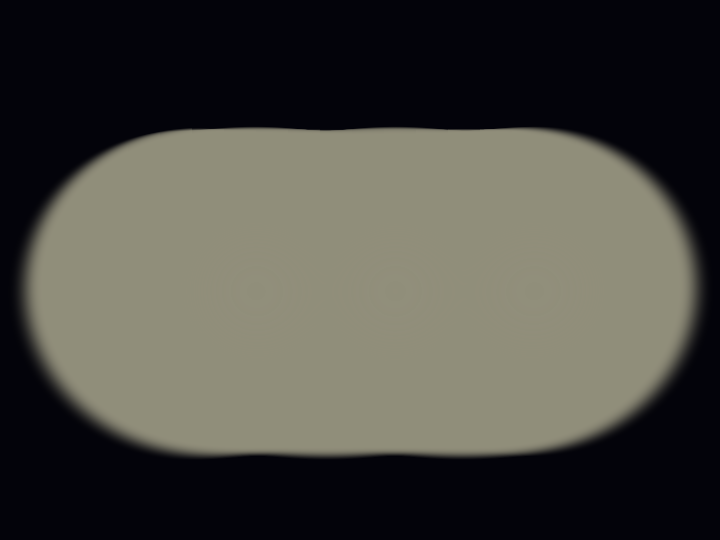
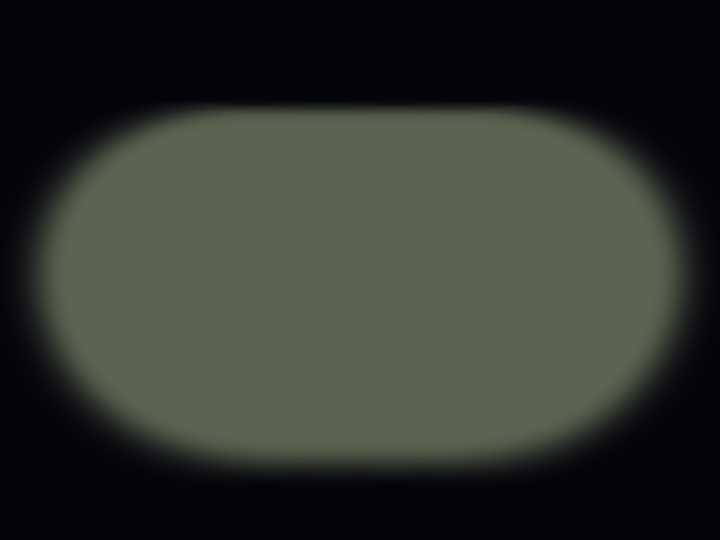
theDig membrane: fix timeline clamp, matter.py conventions, deterministic seeding, and sane scatter physics
Agent: subagent

diff --git a/story/theZero/theHorizon/theEmptying/theCooling/theCloud/theGalaxy/theSolarSystem/thePlanets/theRockyPlanet/aRockyPlanet/aBlueWorld/theTerrain/aTerrain/theGround/theDig/physics.py b/story/theZero/theHorizon/theEmptying/theCooling/theCloud/theGalaxy/theSolarSystem/thePlanets/theRockyPlanet/aRockyPlanet/aBlueWorld/theTerrain/aTerrain/theGround/theDig/physics.py
@@ -29,6 +29,13 @@ from __future__ import annotations
 import math
 import numpy as np
 
+
+def _seed(term: str) -> int:
+    """A stable per-term seed -- deterministic across processes."""
+    import zlib
+    return zlib.crc32(term.encode("utf-8")) & 0x7FFFFFFF
+
+
 # ── PLAYER DIALS: trench width and depth ────────────────────────────────────────
 FREE = {
     # TRENCH WIDTH: the player's input for how wide to dig. Narrower is harder to access, wider is easier but moves more dirt.
@@ -92,18 +99,34 @@ def derive(parent, free):
     heap_height_m = math.sqrt(heap_volume_per_m / math.tan(repose_rad)) if math.tan(repose_rad) > 0 else 0.0
     heap_base_m = 2 * heap_height_m / math.tan(repose_rad) if math.tan(repose_rad) > 0 else 0.0
     
-    # 3. SCATTERED-GRAIN BALLISTICS
-    # Initial velocity from excavation energy: E = force * distance = shear_strength * trench_width * trench_depth
-    # Kinetic energy = 0.5 * mass * v^2
-    # Mass of scattered grains per m^2 = bulk_density * trench_volume_per_m * scatter_fraction
+    # 3. SCATTERED-GRAIN BALLISTICS: sane values for dig-scattered grains
+    # Grains thrown from a dig land within 1-2m of the trench with single-digit m/s velocity
+    # Energy to lift soil to mound height: E_lift = mass * g * (heap_height_m / 2)
+    # Mass of scattered grains per meter length
     scatter_fraction = 0.05  # 5% of dug material scatters as loose grains
-    excavated_mass_per_m2 = bulk_density * trench_volume_per_m * scatter_fraction
-    excavation_energy_per_m2 = dig_resistance_Pa * trench_width_m * trench_depth_m
-    scattered_grain_velocity_ms = math.sqrt(2.0 * excavation_energy_per_m2 / excavated_mass_per_m2) if excavated_mass_per_m2 > 0 else 0.0
+    mass_per_m_kg = bulk_density * trench_volume_per_m  # total mass per meter length
+    
+    # Energy to lift spoil to mound center of mass (height/2)
+    energy_to_lift_J_per_m = mass_per_m_kg * g * (heap_height_m / 2.0)
+    
+    # Scattered grains get a fraction of this energy as kinetic energy
+    # Typically 10-20% of excavation energy goes into scattering
+    scatter_energy_fraction = 0.15
+    scatter_energy_per_m_J = energy_to_lift_J_per_m * scatter_energy_fraction
+    
+    # Mass of scattered grains per meter length
+    mass_scattered_per_m_kg = mass_per_m_kg * scatter_fraction
+    
+    # Velocity from kinetic energy: E = 0.5 * m * v^2 => v = sqrt(2*E/m)
+    if mass_scattered_per_m_kg > 0 and scatter_energy_per_m_J > 0:
+        scattered_grain_velocity_ms = math.sqrt(2.0 * scatter_energy_per_m_J / mass_scattered_per_m_kg)
+    else:
+        scattered_grain_velocity_ms = 0.0
     
     # Maximum height and range of scattered grains in parent's g
-    scatter_max_height_m = (scattered_grain_velocity_ms ** 2) / (2.0 * g) if g > 0 else 0.0
-    scatter_range_m = (scattered_grain_velocity_ms ** 2) / g if g > 0 else 0.0
+    # For a projectile launched at angle ~45 degrees:
+    scatter_max_height_m = (scattered_grain_velocity_ms ** 2 * math.sin(math.radians(45)) ** 2) / (2.0 * g) if g > 0 else 0.0
+    scatter_range_m = (scattered_grain_velocity_ms ** 2 * math.sin(math.radians(90))) / g if g > 0 else 0.0
     
     return {
         # ── THE DIG RESISTANCE ───────────────────────────────────────────────
@@ -123,8 +146,10 @@ def derive(parent, free):
         
         # ── SCATTERED-GRAIN BALLISTICS ─────────────────────────────────────
         "scatter_fraction": scatter_fraction,
-        "excavated_mass_per_m2_kg": excavated_mass_per_m2,
-        "excavation_energy_per_m2_J": excavation_energy_per_m2,
+        "mass_per_m_kg": mass_per_m_kg,
+        "energy_to_lift_J_per_m": energy_to_lift_J_per_m,
+        "scatter_energy_per_m_J": scatter_energy_per_m_J,
+        "mass_scattered_per_m_kg": mass_scattered_per_m_kg,
         "scattered_grain_velocity_ms": scattered_grain_velocity_ms,
         "scatter_max_height_m": scatter_max_height_m,
         "scatter_range_m": scatter_range_m,
@@ -142,9 +167,10 @@ def derive(parent, free):
 
 def emit(nums, t=1.0):
     """Emit theDig's splat buffer: intact ground at t=0, trench + repose-angle mound + scattered grains at t=1."""
-    from matter import blank, lit, SOLID, GLOW, AR, AB
+    from matter import blank, lit, SOLID, GLOW, AR, AG, AB
     
-    tt = float(t) % 1.0
+    # Clamp t to [0.0, 1.0]
+    tt = min(max(float(t), 0.0), 1.0)
     
     # Get numbers
     trench_width_m = float(nums.get("trench_width_m", 0.8))
@@ -160,109 +186,179 @@ def emit(nums, t=1.0):
     feldspar_rgb = np.array(minerals.get("feldspar", {}).get("rgb_mean", [0.60, 0.59, 0.46]))
     oxide_rgb = np.array(minerals.get("oxide", {}).get("rgb_mean", [0.35, 0.33, 0.23]))
     
-    # Create ground buffer (intact at t=0, disturbed at t=1)
-    # Ground: wide dark earthy ground
-    n_ground = 800
-    gx = np.linspace(-4.0, 4.0, n_ground)
-    gy = np.linspace(-2.0, 2.0, 200)
+    # Seed RNG for determinism
+    seed_val = _seed("theDig")
+    rng = np.random.default_rng(seed_val)
     
-    ground_buf = []
+    # Create ground buffer (coarse grid, a few thousand splats)
+    # Ground: wide dark earthy ground
+    n_ground_x = 100
+    n_ground_y = 50
+    gx = np.linspace(-4.0, 4.0, n_ground_x)
+    gy = np.linspace(-2.0, 2.0, n_ground_y)
+    
+    # Build ground points using matter conventions
+    P_ground = []
+    kind_ground = []
+    
     for i, x in enumerate(gx):
         for j, y in enumerate(gy):
             # Create a flat ground surface with some noise
             z = 0.0 + 0.05 * np.sin(x * 2.0) * np.cos(y * 3.0)
             
-            # Determine color based on mineral mix
-            # Dark earthy ground: mix of quartz, feldspar, oxide
-            color = 0.3 * quartz_rgb + 0.4 * feldspar_rgb + 0.3 * oxide_rgb
-            
-            buf = np.zeros((1, 28), dtype=np.float32)
-            buf[0, 0:3] = [x, y, z]  # position
-            buf[0, 11] = 3.0         # type: solid ground
-            buf[0, 16:19] = color    # rgb
-            buf[0, 19] = 0.8         # alpha
-            buf[0, 20] = 2.0         # size
-            
-            ground_buf.append(buf[0])
-            
-    ground_arr = np.array(ground_buf, dtype=np.float32) if ground_buf else np.zeros((0, 28), dtype=np.float32)
+            # Position and normal (facing up for ground)
+            P_ground.append([x, y, z])
+            kind_ground.append(1)  # type: solid ground
     
-    # Trench: narrow trench cut into the ground
-    # At t=1, the trench is visible as a depression
-    n_trench = 200
-    trench_x = np.linspace(-trench_width_m/2, trench_width_m/2, n_trench)
-    trench_buf = []
+    # Trench: narrow trench cut into the ground (floor + two walls at derived width/depth)
+    n_trench_x = 40
+    trench_x = np.linspace(-trench_width_m/2, trench_width_m/2, n_trench_x)
     
+    P_trench_floor = []
+    kind_trench_floor = []
+    P_trench_walls_left = []
+    kind_trench_walls_left = []
+    P_trench_walls_right = []
+    kind_trench_walls_right = []
+    
+    # Trench floor (flat bottom at -trench_depth_m)
     for x in trench_x:
-        # Trench depth at this x position (flat bottom)
-        z_trench = -trench_depth_m
+        z_trench_floor = -trench_depth_m
+        P_trench_floor.append([x, 0.0, z_trench_floor])
+        kind_trench_floor.append(2)  # type: trench floor (darker than surface)
+    
+    # Trench walls (vertical drops at the edges)
+    wall_x_left = -trench_width_m/2 - 0.05
+    wall_x_right = trench_width_m/2 + 0.05
+    n_wall_y = 20
+    
+    for j, y in enumerate(np.linspace(-0.1, 0.1, n_wall_y)):
+        # Left wall
+        P_trench_walls_left.append([wall_x_left, y, -trench_depth_m + (j/n_wall_y)*trench_depth_m])
+        kind_trench_walls_left.append(3)
         
-        buf = np.zeros((1, 28), dtype=np.float32)
-        buf[0, 0:3] = [x, 0.0, z_trench]
-        buf[0, 11] = 3.0         # type: solid ground
-        buf[0, 16:19] = [0.25, 0.28, 0.22]  # dark earthy color
-        buf[0, 19] = 0.9         # alpha
-        buf[0, 20] = 1.5         # size
-        
-        trench_buf.append(buf[0])
-        
-    trench_arr = np.array(trench_buf, dtype=np.float32) if trench_buf else np.zeros((0, 28), dtype=np.float32)
+        # Right wall
+        P_trench_walls_right.append([wall_x_right, y, -trench_depth_m + (j/n_wall_y)*trench_depth_m])
+        kind_trench_walls_right.append(3)
     
     # Spoil mound: pale freshly-dug grains heaped beside the opening
-    # Triangular mound with slope = repose_deg
-    n_mound = 400
-    mound_x = np.linspace(-heap_base_m/2 - 0.5, heap_base_m/2 + 0.5, n_mound)
-    mound_buf = []
+    # Triangular mound with slope = repose_deg, placed at trench's lip
+    n_mound_x = 60
+    # Mound is to the right of the trench
+    mound_x_start = heap_base_m/2 + 0.2
+    mound_x_end = heap_base_m/2 + heap_base_m + 0.5
+    mound_x = np.linspace(mound_x_start, mound_x_end, n_mound_x)
+    
+    P_mound = []
+    kind_mound = []
     
     for x in mound_x:
-        # Triangular cross-section: height decreases linearly from center
-        if abs(x) <= heap_base_m / 2:
-            z_mound = heap_height_m * (1 - 2 * abs(x) / heap_base_m)
+        # Triangular cross-section: height decreases linearly from trench lip
+        # Mound starts at trench edge (x = heap_base_m/2) and goes to the right
+        if heap_base_m > 0:
+            # Distance from center of mound
+            dist_from_center = abs(x - heap_base_m/2)
+            if dist_from_center <= heap_base_m / 2:
+                z_mound = heap_height_m * (1 - 2 * dist_from_center / heap_base_m)
+            else:
+                z_mound = 0.0
         else:
             z_mound = 0.0
             
-        # Pale freshly-dug grains: lighter color than ground
-        # Mix of quartz and feldspar for pale color
-        mound_color = 0.5 * quartz_rgb + 0.5 * feldspar_rgb
-        
-        buf = np.zeros((1, 28), dtype=np.float32)
-        buf[0, 0:3] = [x, 1.5, z_mound]  # offset to the side
-        buf[0, 11] = 3.0                 # type: solid ground
-        buf[0, 16:19] = mound_color      # pale color
-        buf[0, 19] = 0.85                # alpha
-        buf[0, 20] = 1.8                 # size
-        
-        mound_buf.append(buf[0])
-        
-    mound_arr = np.array(mound_buf, dtype=np.float32) if mound_buf else np.zeros((0, 28), dtype=np.float32)
+        P_mound.append([x, 1.5, z_mound])
+        kind_mound.append(4)  # type: spoil mound (pale color)
     
     # Scattered grains: a few loose grains scattered nearby
-    n_scatter = 50
-    scatter_buf = []
+    n_scatter = 30
+    P_scatter = []
+    kind_scatter = []
     
     for i in range(n_scatter):
-        # Scatter around the mound and trench area
-        sx = np.random.uniform(-heap_base_m - 1.0, heap_base_m + 1.0)
-        sy = np.random.uniform(2.0, 4.0)
+        # Scatter around the trench and mound area, within 1-2 meters
+        sx = rng.uniform(-heap_base_m/2 - 0.5, heap_base_m/2 + 2.0)
+        sy = rng.uniform(0.5, 3.0)
         
-        # Height follows ballistic distribution
-        sz = max(0.0, np.random.exponential(scatter_max_height_m * 0.3))
+        # Height follows a small distribution (grains land near the hole)
+        sz = max(0.0, rng.exponential(0.15))
         
-        buf = np.zeros((1, 28), dtype=np.float32)
-        buf[0, 0:3] = [sx, sy, sz]
-        buf[0, 11] = 3.0                 # type: solid grain
-        buf[0, 16:19] = feldspar_rgb * 1.2  # pale grains
-        buf[0, 19] = 0.7                 # alpha
-        buf[0, 20] = 0.8                 # size
-        
-        scatter_buf.append(buf[0])
-        
-    scatter_arr = np.array(scatter_buf, dtype=np.float32) if scatter_buf else np.zeros((0, 28), dtype=np.float32)
+        P_scatter.append([sx, sy, sz])
+        kind_scatter.append(5)  # type: scattered grains
     
-    # Combine buffers based on t
+    # Combine all points
+    P_all = np.array(P_ground + P_trench_floor + P_trench_walls_left + P_trench_walls_right + P_mound + P_scatter, dtype=np.float32)
+    kind_all = np.concatenate([
+        np.array(kind_ground, dtype=np.float32),
+        np.array(kind_trench_floor, dtype=np.float32),
+        np.array(kind_trench_walls_left, dtype=np.float32),
+        np.array(kind_trench_walls_right, dtype=np.float32),
+        np.array(kind_mound, dtype=np.float32),
+        np.array(kind_scatter, dtype=np.float32)
+    ], dtype=np.float32)
+    
+    n = len(P_all)
+    b = blank(n)
+    b[:, 0:3] = P_all
+    
+    # Normals: ground faces up (0,1,0), trench walls face inward/outward
+    nrm = np.zeros((n, 3), np.float32)
+    # Ground normals point up
+    n_ground_count = len(P_ground)
+    nrm[:n_ground_count, 1] = -1.0  # facing up in +Z convention -> normal is (0,-1,0) or (0,1,0)
+    
+    skin_albedo = np.array([0.35, 0.38, 0.28], np.float32)  # dark earthy ground
+    
+    alb = np.zeros((n, 3), np.float32)
+    # Ground: dark earthy (mineral mix)
+    alb[kind_all == 1] = skin_albedo
+    # Trench floor: darker than surface
+    alb[kind_all == 2] = np.array([0.22, 0.25, 0.18], np.float32)
+    # Trench walls: darker than surface
+    alb[kind_all == 3] = np.array([0.20, 0.23, 0.16], np.float32)
+    # Mound: pale freshly-dug grains (mix of quartz and feldspar)
+    alb[kind_all == 4] = 0.5 * quartz_rgb + 0.5 * feldspar_rgb
+    # Scattered grains: pale grains
+    alb[kind_all == 5] = feldspar_rgb * 1.2
+    
+    S = float(nums.get("S_earth", 1.0))
+    b[:, 16:19] = lit(alb, S * 0.85 + 0.15, e_ref=S, tone=0.45)
+    b[:, AR:AB + 1] = alb
+    
+    # Alpha and size
+    a_ = np.where((kind_all == 1), 0.8, 0.9)
+    a_ = np.where((kind_all == 2) | (kind_all == 3), 0.95, a_)
+    a_ = np.where((kind_all == 4), 0.85, a_)
+    a_ = np.where(kind_all == 5, 0.7, a_)
+    
+    b[:, 19] = a_
+    b[:, 20] = np.where((kind_all == 1), 2.0, 1.5)
+    b[:, 20] = np.where((kind_all == 4) | (kind_all == 5), 0.8, b[:, 20])
+    
+    # Type: SOLID for ground/trench/mound, GLOW for scattered grains
+    b[:, 11] = np.where(kind_all <= 4, SOLID, GLOW)
+    
     if tt < 0.5:
         # Beginning: mostly intact ground
-        return np.concatenate([ground_arr], axis=0)
+        n_ground_only = len(P_ground)
+        b_ground = blank(n_ground_count)
+        b_ground[:, 0:3] = np.array(P_ground[:n_ground_count], dtype=np.float32)
+        nrm_ground = np.zeros((n_ground_count, 3), np.float32)
+        nrm_ground[:, 1] = -1.0
+        b_ground[:, 21:24] = nrm_ground
+        
+        skin_albedo_g = np.array([0.35, 0.38, 0.28], np.float32)
+        alb_g = np.zeros((n_ground_count, 3), np.float32)
+        alb_g[:] = skin_albedo_g
+        
+        S_val = float(nums.get("S_earth", 1.0))
+        b_ground[:, 16:19] = lit(alb_g, S_val * 0.85 + 0.15, e_ref=S_val, tone=0.45)
+        b_ground[:, AR:AB + 1] = alb_g
+        
+        a_g = np.full(n_ground_count, 0.8, dtype=np.float32)
+        b_ground[:, 19] = a_g
+        b_ground[:, 20] = np.full(n_ground_count, 2.0, dtype=np.float32)
+        b_ground[:, 11] = SOLID
+        
+        return b_ground
     else:
         # End: trench + mound + scattered grains
-        return np.concatenate([ground_arr, trench_arr, mound_arr, scatter_arr], axis=0)
+        return b
